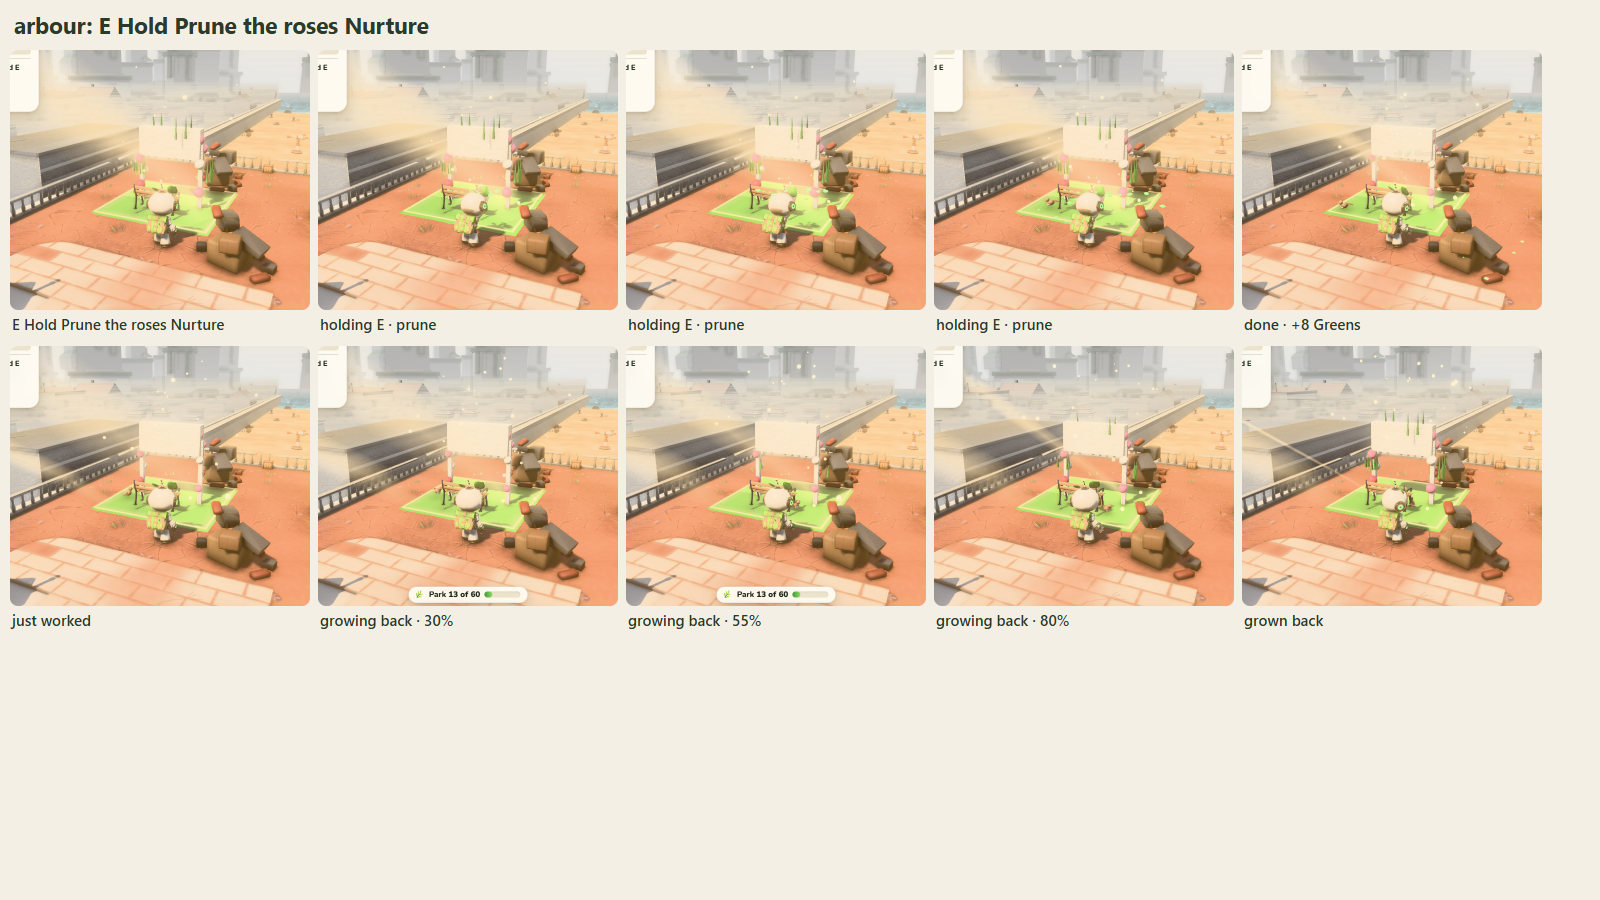
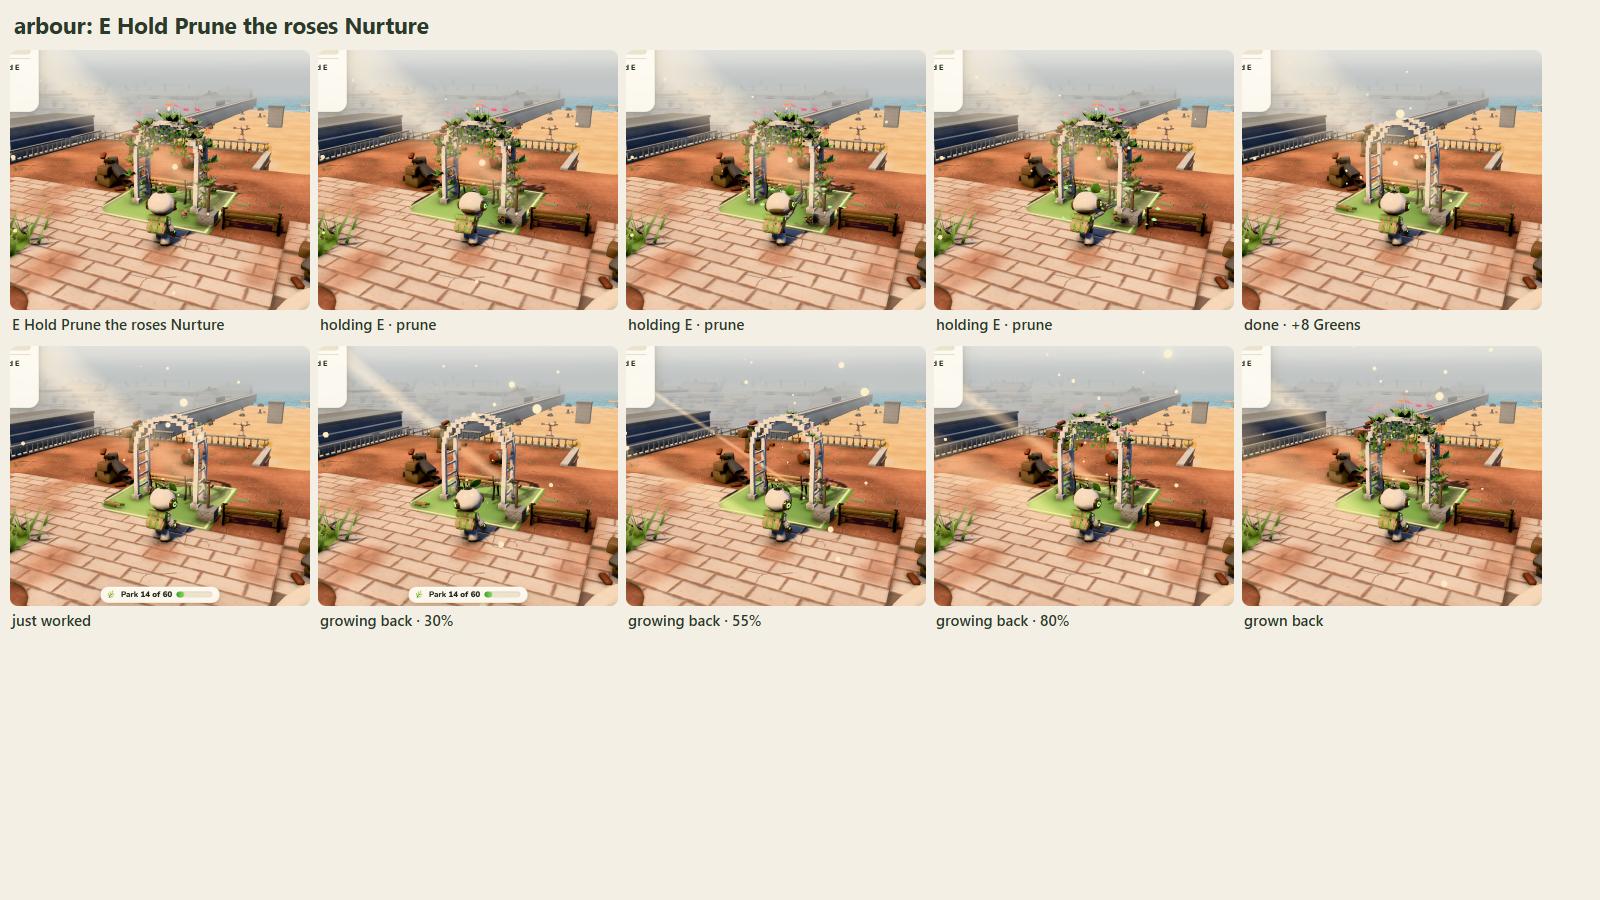
Plot art that matches the park, and prunes you can see (#680, art half)
The plant plots grow from the park's own planting now (leafy shrubs, flower
clumps, grass and ivy) instead of cones and balls, and show being picked,
pruned and growing back: the orchard bushes out and the rose arbour is
smothered in leaves and pink flowers when wild, then stands neat beside a
heap of clippings once pruned. Fixed three builds that drew wrong: the arbour
arch and the bike hoops were solid slabs (no torus in the chunk mesh; they
are rings of short pieces now), the glasshouse was a dark shut box (now open
white frames with a glass roof over benches of seedlings), and the splash
pool's water sat under its stone. Café, playground, music corner, mooring,
stalls, reeds, dipping pond, picnic and hut are kept.

Adds tests/e2e/plot-gallery.mjs (every option from the follow camera, before
and after) and new gather and prune strips.

diff --git a/src/rendering/PlotArt.ts b/src/rendering/PlotArt.ts
@@ -8,8 +8,13 @@
  * model pipeline (#197, #198): add it to the batch here under the option's id, keeping the fallback.
  *
  * Far level of detail is one coloured pad and a single blob, so a zoomed-out city full of plots stays cheap.
+ *
+ * E27.2 (#680): the plant plots grow from the park's own planting (leafy shrubs, flower clumps, grass and ivy from
+ * Flora.ts) instead of cones and balls, so they sit in the park and can show being picked, pruned and growing back.
+ * Arches and wheels are rings of short pieces, because the chunk mesh has no torus and no rotation.
  */
 import type { PlotSpot } from '../core/Plots';
+import { flowerGeo, grassGeo, leafyShrubGeo, vineGeo, type FlowerSpecies } from './Flora';
 import { PALETTE } from './Palette';
 import type { VPrim } from './Shapes';
 import { shrubGeo, treeGeo, type Lod, type Species } from './TreeGen';
@@ -97,17 +102,48 @@ function waiting(h: PlotHost, x0: number, z0: number, S: number, y: number) {
   h.add('box', C.string, [x0 + S / 2, y + 0.34, z0 + S - e], [S - 2 * e, 0.012, 0.012]);
 }
 
-/** A raised bed: timber edge, soil, rows of crops. */
-function bed(h: PlotHost, cx: number, cz: number, w: number, d: number, y: number, crop: string, v: number, g = 1) {
+/**
+ * E27.2: a raised bed: timber edge, soil, two rows of leafy crops, and a sunflower at each end. Picked, only new
+ * leaves show in the soil; the crops fill out again as it grows back, and the flowers come back last.
+ */
+function bed(a: At, cx: number, cz: number, w: number, d: number, k: number) {
+  const { h, y, g } = a;
   h.add('box', C.deck, [cx, y + 0.07, cz], [w, 0.14, d]);
   h.add('box', C.bedSoil, [cx, y + 0.145, cz], [w - 0.1, 0.02, d - 0.1]);
-  const n = Math.max(2, Math.round(w / 0.2));
-  // E27.2: picked, the rows are short green stubs; they fill out again as it grows back (the crop colour last)
-  const k = 0.3 + 0.7 * g;
+  const n = Math.max(2, Math.round(d / 0.36));
   for (let i = 0; i < n; i++) {
-    const px = cx - w / 2 + (i + 0.5) * (w / n);
-    h.add('sphere', i % 2 || g < 0.6 ? PALETTE.flowers.stem : crop, [px, y + 0.15 + 0.04 * k, cz - d * 0.2], 0.11 * k);
-    h.add('sphere', (i + v) % 3 || g < 0.6 ? PALETTE.flowers.stemSoft : crop, [px, y + 0.15 + 0.04 * k, cz + d * 0.2], 0.1 * k);
+    const pz = cz - d / 2 + (i + 0.5) * (d / n);
+    for (const s of [-1, 1]) {
+      const px = cx + s * w * 0.22;
+      const vv = a.v + i * 3 + (s > 0 ? 1 : 0) + k;
+      if (g < 0.2) h.foliage(grassGeo(1, vv, h.lod), px, y + 0.155, pz, vv, 1.1); // picked: new leaves just showing
+      else h.foliage(leafyShrubGeo(vv, h.lod, false), px, y + 0.155, pz, vv * 1.3, 0.2 + 0.26 * g);
+    }
+  }
+  if (g >= 0.5) for (const s of [-1, 1]) h.foliage(flowerGeo('sunflower', k, true, a.v + k + s, h.lod), cx, y + 0.155, cz + s * (d / 2 - 0.08), k, 0.7 + 0.3 * g);
+}
+
+/** E27.2: a little heap of fresh clippings beside a plant Bloombot has just pruned (gone once it has grown out). */
+function clippings(a: At, x: number, z: number) {
+  if (a.g >= 0.5) return;
+  const k = 1 - a.g * 2;
+  for (let i = 0; i < 5; i++) {
+    const ang = a.v + i * 1.3;
+    a.h.add('box', i % 2 ? PALETTE.flowers.stem : PALETTE.wood.mid, [x + Math.cos(ang) * 0.08, a.y + 0.03 + (i % 3) * 0.02, z + Math.sin(ang) * 0.06], [0.22 * k, 0.025, 0.04]);
+  }
+  a.h.foliage(leafyShrubGeo(a.v + 2, a.h.lod, false), x, a.y + 0.02, z, a.v, 0.22 * k);
+}
+
+/**
+ * E27.2: an upright ring (or arc from `from` to `to`, radians from +x) of `n` short pieces centred on (x, y, z), in
+ * the x-y plane. A piece is long along the ring and `thick` across it.
+ */
+function ring(a: At, hex: string, x: number, y: number, z: number, r: number, thick: number, from = 0, to = Math.PI * 2, n = 12) {
+  const seg = ((to - from) / n) * r * 1.15;
+  for (let i = 0; i < n; i++) {
+    const t = from + ((i + 0.5) / n) * (to - from);
+    const across = Math.abs(Math.sin(t)); // 1 at the top and bottom (the piece lies along x), 0 at the sides
+    a.h.add('box', hex, [x + Math.cos(t) * r, y + Math.sin(t) * r, z], [thick + (seg - thick) * across, thick + (seg - thick) * (1 - across), thick]);
   }
 }
 
@@ -144,44 +180,39 @@ function water(a: At, x: number, z: number, w: number, d: number) {
   a.h.add('box', C.waterShallow, [x, a.y + 0.09, z], [w, 0.02, d]);
 }
 
-/**
- * E27.2: shoots grown wild out of a plant Bloombot prunes, more of them and longer the more overgrown it is (none
- * just after pruning, when `wild` is 0).
- */
-function shoots(a: At, x: number, z: number, top: number, spread: number, wild: number, hex: string) {
-  const n = Math.round(wild * 5);
-  for (let i = 0; i < n; i++) {
-    const ang = ((a.v + i * 2.4) % 6.28) + i;
-    const len = 0.16 + 0.22 * wild;
-    a.h.add('cone', hex, [x + Math.cos(ang) * spread, a.y + top + len / 2, z + Math.sin(ang) * spread], [0.05, len, 0.05]);
-  }
-}
-
 /** E27.2: for the plots Bloombot prunes, how wild they've grown (0 just pruned, 1 at `growth` 1). */
 const wildOf = (a: At) => Math.max(0, (a.g - 0.35) / 0.65);
 
 const garden = (a: At) => {
-  bed(a.h, a.cx - 0.45, a.cz, 0.7, 1.6, a.y, pick(C.veg, a.v), a.v, a.g);
-  bed(a.h, a.cx + 0.45, a.cz, 0.7, 1.6, a.y, pick(C.veg, a.v + 1), a.v + 1, a.g);
-  for (const s of [-1, 1]) a.h.add('sphere', PALETTE.flowers.orange, [a.cx, a.y + 0.14, a.cz + s * 0.6], 0.16); // marigolds on the path
+  bed(a, a.cx - 0.45, a.cz, 0.7, 1.6, 0);
+  bed(a, a.cx + 0.45, a.cz, 0.7, 1.6, 1);
+  for (const s of [-1, 1]) a.h.foliage(flowerGeo('wild', 1, true, a.v + s, a.h.lod), a.cx, a.y + 0.02, a.cz + s * 0.62, s, 0.9); // marigolds on the path
 };
 
 const ART: Record<string, (a: At) => void> = {
   garden,
   orchard: (a) => {
-    // E27.2: pruned they stand neat; left, they bush out and throw up long shoots, until Bloombot prunes them
+    // E27.2: pruned, four neat young fruit trees and a heap of clippings; left, each grows a bigger, shaggier crown
+    // with suckers bushing up round its foot, until Bloombot prunes it back
     const wild = wildOf(a);
-    for (const [dx, dz] of [[-0.48, -0.48], [0.48, -0.48], [-0.48, 0.48], [0.48, 0.48]]) {
-      tree(a, 'cherry', a.cx + dx, a.cz + dz, 0.44 + 0.1 * wild, 2); // young trees: a quarter of a grown tree's triangles
-      shoots(a, a.cx + dx, a.cz + dz, 0.62 + 0.08 * wild, 0.14, wild, PALETTE.flowers.stem);
-      a.h.add('sphere', pick(C.fruit, a.v), [a.cx + dx + 0.12, a.y + 0.11, a.cz + dz - 0.1], 0.08); // a windfall
+    for (const [dx, dz] of [[-0.5, -0.5], [0.5, -0.5], [-0.5, 0.5], [0.5, 0.5]]) {
+      const x = a.cx + dx;
+      const z = a.cz + dz;
+      a.h.add('cylinder', C.bedSoil, [x, a.y + 0.01, z], [0.5, 0.02, 0.5]); // a cleared ring round each trunk
+      tree(a, 'cherry', x, z, 0.5 + 0.22 * wild, wild > 0.5 ? 3 : 2);
+      for (let k = 0; k < Math.round(wild * 3); k++) a.h.foliage(leafyShrubGeo(a.v + k, a.h.lod, false), x + (k - 1) * 0.16, a.y + 0.02, z + 0.14 - k * 0.06, k, 0.3 + 0.12 * wild);
+      a.h.add('sphere', pick(C.fruit, a.v), [x + 0.16, a.y + 0.05, z - 0.12], 0.08); // a windfall
     }
+    clippings(a, a.cx, a.cz - 0.95);
   },
   cafe: (a) => {
     a.h.add('box', C.kerb, [a.cx, a.y + 0.02, a.cz], [a.S - 0.1, 0.04, a.S - 0.1]);
     table(a, a.cx - 0.45, a.cz - 0.45, 0);
     table(a, a.cx + 0.45, a.cz + 0.45, 1);
-    if (!a.h.model('planter-trough', a.cx + 0.5, a.y + 0.08, a.cz - 0.6, 0, 0.45)) bed(a.h, a.cx + 0.5, a.cz - 0.6, 0.7, 0.3, a.y, PALETTE.flowers.stem, a.v);
+    if (!a.h.model('planter-trough', a.cx + 0.5, a.y + 0.08, a.cz - 0.6, 0, 0.45)) {
+      a.h.add('box', C.deck, [a.cx + 0.5, a.y + 0.07, a.cz - 0.6], [0.7, 0.14, 0.3]);
+      for (const s of [-1, 1]) a.h.foliage(leafyShrubGeo(a.v + s, a.h.lod, false), a.cx + 0.5 + s * 0.18, a.y + 0.15, a.cz - 0.6, s, 0.22);
+    }
   },
   playground: (a) => {
     const { h, y, cx, cz } = a;
@@ -197,57 +228,104 @@ const ART: Record<string, (a: At) => void> = {
   },
   arbour: (a) => {
     const { h, y, cx, cz } = a;
-    // E27.2: pruned, the roses sit close to the frame; left, they grow bushy and trail long canes
+    // E27.2: an arch of white timber over a bench, with climbing roses up both sides and over the top. Pruned, the
+    // roses sit close to the frame beside a heap of clippings; left, they bush out, flower thickly and trail canes.
     const wild = wildOf(a);
-    const r = 0.13 + 0.05 * wild;
+    const H = 0.9;
+    const W = 0.55;
     for (const s of [-1, 1]) {
-      h.add('box', C.frame, [cx + s * 0.55, y + 0.55, cz], [0.07, 1.1, 0.07]);
-      for (let k = 0; k < 4; k++) h.add('sphere', pick(C.rose, k + (s > 0 ? 1 : 0)), [cx + s * 0.55, y + 0.3 + k * 0.24, cz + ((k % 2) - 0.5) * 0.14], r);
-      shoots(a, cx + s * 0.62, cz, 0.5, 0.12, wild, PALETTE.flowers.stem);
+      for (const dz of [-0.22, 0.22]) {
+        h.add('box', C.kerb, [cx + s * W, y + 0.04, cz + dz], [0.14, 0.08, 0.14]);
+        h.add('box', C.frame, [cx + s * W, y + H / 2, cz + dz], [0.07, H, 0.07]);
+      }
+      for (let k = 0; k < 4; k++) h.add('box', C.frame, [cx + s * W, y + 0.2 + k * 0.2, cz], [0.03, 0.03, 0.44]); // trellis rungs
+      // pruned, short green stems; left, big flowering bushes
+      for (let k = 0; k < 3; k++) h.foliage(leafyShrubGeo(a.v + k + (s > 0 ? 3 : 0), h.lod, wild > 0.3), cx + s * (W + 0.04 + 0.08 * wild), y + 0.04 + k * 0.3, cz + (k % 2 ? 0.1 : -0.1), k * 1.7, 0.2 + 0.36 * wild);
     }
-    h.add('torus', C.frame, [cx, y + 1.1, cz], [1.1, 0.5, 0.2]);
-    for (let k = 0; k < 6; k++) h.add('sphere', pick(C.rose, k), [cx - 0.5 + k * 0.2, y + 1.18 + Math.sin(k) * 0.05, cz], r + 0.02);
-    shoots(a, cx, cz, 1.2, 0.35, wild, PALETTE.flowers.stem);
-    if (!h.model('bench', cx, y + 0.08, cz - 0.55, 0, 0.5)) h.add('box', PALETTE.props.benchWood, [cx, y + 0.24, cz - 0.55], [0.7, 0.06, 0.24]);
+    for (const dz of [-0.22, 0.22]) ring(a, C.frame, cx, y + H, cz + dz, W, 0.06, 0, Math.PI, 16);
+    for (let k = 0; k < 5; k++) {
+      const t = ((k + 0.5) / 5) * Math.PI;
+      h.add('box', C.frame, [cx + Math.cos(t) * W, y + H + Math.sin(t) * W, cz], [0.04, 0.04, 0.5]); // slats over the top
+    }
+    // roses over the top: a few close to the frame when pruned, a thick flowering crown left wild
+    const top = 3 + Math.round(wild * 5);
+    for (let k = 0; k < top; k++) {
+      const t = ((k + 0.5) / top) * Math.PI;
+      h.foliage(leafyShrubGeo(a.v + k, h.lod, wild > 0.3 || k % 2 === 0), cx + Math.cos(t) * W, y + H + Math.sin(t) * W - 0.06, cz + ((k % 2) - 0.5) * 0.18, k * 2.3, 0.2 + 0.34 * wild);
+    }
+    // left wild, canes trail down off the top of the arch, front and back (a vine runs along its local +x from where
+    // it starts, so the back one, turned round, starts at the other end)
+    if (wild > 0.3) {
+      const len = 0.5 + 0.4 * wild;
+      for (const s of [-1, 1]) h.foliage(vineGeo(3, 0.15 + 0.4 * wild, a.v + s, h.lod), cx - (s * len) / 2, y + H + W * 0.85, cz + s * 0.27, s > 0 ? 0 : Math.PI, len);
+    }
+    // the roses' flowers: a few buds once pruned, then pink clusters all over the arch as it grows wild
+    const blooms = Math.round(2 + wild * 6);
+    for (let k = 0; k < blooms; k++) {
+      const t = ((k + 0.5) / blooms) * Math.PI;
+      h.foliage(flowerGeo('cosmos', k, wild > 0.2, a.v + k, h.lod), cx + Math.cos(t) * (W + 0.03), y + H + Math.sin(t) * (W + 0.03), cz + (k % 2 ? 0.2 : -0.2), k, 0.6 + 0.9 * wild);
+    }
+    for (const s of [-1, 1]) for (let k = 0; k < Math.round(wild * 3); k++) h.foliage(flowerGeo('cosmos', k + 2, true, a.v + k + s, h.lod), cx + s * (W + 0.1), y + 0.2 + k * 0.28, cz + (k % 2 ? -0.18 : 0.18), k, 0.9 + 0.5 * wild);
+    if (!h.model('bench', cx, y + 0.08, cz, 0, 0.5)) h.add('box', PALETTE.props.benchWood, [cx, y + 0.24, cz], [0.7, 0.06, 0.24]);
+    clippings(a, cx + 0.72, cz - 0.72);
   },
   meadow: (a) => {
-    // E27.2: cut, short stubble; the long grass and its poppies come back as it grows
-    const tall = 0.1 + 0.3 * a.g;
-    for (let i = 0; i < 9; i++) {
-      const x = a.x0 + 0.3 + (i % 3) * 0.7;
-      const z = a.z0 + 0.3 + Math.floor(i / 3) * 0.7;
-      a.h.add('cone', PALETTE.lawn.tuft[i % 3], [x, a.y + tall / 2, z], [0.32, tall, 0.32]);
-      if (a.g > 0.5) a.h.add('sphere', i % 3 ? PALETTE.flowers.red : PALETTE.flowers.yellow, [x + 0.1, a.y + tall - 0.04, z - 0.06], 0.1 * Math.min(1, (a.g - 0.5) * 3));
+    // E27.2: long grass and wildflowers from the park's own grass and flower clumps. Cut, short stubble with bundles
+    // of cut grass; the long grass comes back, then the poppies, daisies and cosmos.
+    const kinds: FlowerSpecies[] = ['wild', 'daisy', 'cosmos'];
+    for (let i = 0; i < 16; i++) {
+      const x = a.x0 + 0.22 + (i % 4) * 0.52 + ((a.v + i * 7) % 5) * 0.03;
+      const z = a.z0 + 0.22 + Math.floor(i / 4) * 0.52 + ((a.v + i * 3) % 5) * 0.03;
+      a.h.foliage(grassGeo(a.g < 0.25 ? 1 : 3, a.v + i, a.h.lod), x, a.y + 0.01, z, i * 1.1, 1.2 + 2.2 * a.g);
+      if (a.g > 0.5 && i % 2 === 0) a.h.foliage(flowerGeo(kinds[(i / 2) % 3], i, true, a.v + i, a.h.lod), x + 0.12, a.y + 0.01, z - 0.1, i, 0.7 + 1.2 * (a.g - 0.5));
     }
+    if (a.g < 0.5) for (const [dx, dz] of [[-0.5, -0.3], [0.45, 0.4]]) a.h.add('cylinder', PALETTE.lawn.tuft[2], [a.cx + dx, a.y + 0.07, a.cz + dz], [0.22, 0.14, 0.22]); // bundles of cut grass
   },
   parklet: (a) => {
     const { h, y, cx, cz } = a;
     h.add('box', C.deck, [cx, y + 0.05, cz], [a.S - 0.2, 0.1, a.S - 0.2]);
-    // E27.2: pruned, neat little rounds in the pots; left, they bush out and sprout
+    // E27.2: a flowering shrub in each pot. Pruned, neat rounds with clippings on the deck; left, they bush out over
+    // the rims in long sprays.
     const wild = wildOf(a);
-    for (const [dx, dz] of [[-0.6, -0.6], [0.6, -0.6], [-0.6, 0.6], [0.6, 0.6]]) {
-      if (!h.model('planter-pot', cx + dx, y + 0.1, cz + dz, 0, 0.42)) h.add('cylinder', C.kerb, [cx + dx, y + 0.24, cz + dz], [0.36, 0.3, 0.36]);
-      shrub(a, cx + dx, cz + dz, 0.38 + 0.14 * wild);
-      shoots(a, cx + dx, cz + dz, 0.5, 0.1, wild, PALETTE.flowers.stem);
-    }
+    const pots: [number, number][] = [[-0.6, -0.6], [0.6, -0.6], [-0.6, 0.6], [0.6, 0.6]];
+    pots.forEach(([dx, dz], i) => {
+      let top = y + 0.36;
+      if (!h.model('planter-pot', cx + dx, y + 0.1, cz + dz, 0, 0.42)) {
+        h.add('cylinder', C.kerb, [cx + dx, y + 0.24, cz + dz], [0.36, 0.3, 0.36]);
+        top = y + 0.38;
+      }
+      h.foliage(leafyShrubGeo(a.v + i, h.lod, wild > 0.3), cx + dx, top, cz + dz, i, 0.26 + 0.36 * wild);
+      for (let k = 0; k < Math.round(wild * 3); k++) h.foliage(leafyShrubGeo(a.v + i + k + 2, h.lod, true), cx + dx + (k - 1) * 0.16, top + 0.08, cz + dz + (k % 2 ? 0.16 : -0.12), k, 0.24 + 0.16 * wild);
+    });
     if (!h.model('bench', cx, y + 0.1, cz, 0, 0.5)) h.add('box', PALETTE.props.benchWood, [cx, y + 0.28, cz], [0.8, 0.06, 0.28]);
+    clippings(a, cx, cz - 0.55);
   },
   bikes: (a) => {
     const { h, y, cx, cz } = a;
-    for (let i = 0; i < 4; i++) h.add('torus', C.metal, [cx - 0.6 + i * 0.4, y + 0.3, cz - 0.3], [0.4, 0.4, 0.06]);
+    // E27.2 (#680): the hoops and wheels are rings now (they drew as solid slabs: the chunk mesh has no torus)
+    h.add('box', C.kerb, [cx, y + 0.02, cz - 0.3], [1.7, 0.04, 0.3]);
+    for (let i = 0; i < 4; i++) ring(a, C.metal, cx - 0.6 + i * 0.4, y + 0.04, cz - 0.3, 0.17, 0.035, 0, Math.PI, 7);
     for (let i = 0; i < 2; i++) {
       const bx = cx - 0.4 + i * 0.8;
       const col = pick(C.play, a.v + i);
-      for (const s of [-1, 1]) h.add('torus', PALETTE.pure.black, [bx + s * 0.22, y + 0.2, cz + 0.3], [0.36, 0.36, 0.05]);
-      h.add('box', col, [bx, y + 0.32, cz + 0.3], [0.46, 0.05, 0.04]);
+      for (const s of [-1, 1]) ring(a, PALETTE.pure.black, bx + s * 0.22, y + 0.2, cz + 0.3, 0.16, 0.03, 0, Math.PI * 2, 10);
+      h.add('box', col, [bx, y + 0.32, cz + 0.3], [0.46, 0.04, 0.04]);
+      h.add('box', col, [bx - 0.1, y + 0.27, cz + 0.3], [0.04, 0.16, 0.04]);
       h.add('box', col, [bx + 0.16, y + 0.42, cz + 0.3], [0.04, 0.22, 0.04]);
+      h.add('box', PALETTE.pure.black, [bx + 0.16, y + 0.53, cz + 0.3], [0.04, 0.03, 0.24]); // handlebars
+      h.add('box', PALETTE.pure.black, [bx - 0.12, y + 0.37, cz + 0.3], [0.12, 0.03, 0.07]); // saddle
     }
   },
   splash: (a) => {
     const { h, y, cx, cz } = a;
-    h.add('cylinder', C.kerb, [cx, y + 0.06, cz], [1.8, 0.12, 1.8]);
-    h.add('cylinder', C.waterShallow, [cx, y + 0.1, cz], [1.6, 0.04, 1.6]);
-    h.add('cylinder', C.kerb, [cx, y + 0.22, cz], [0.18, 0.3, 0.18]);
+    // E27.2 (#680): the water sits inside a low stone rim (it was level with the stone before, so the pool looked dry)
+    h.add('cylinder', C.kerb, [cx, y + 0.02, cz], [1.8, 0.04, 1.8]);
+    for (let k = 0; k < 16; k++) {
+      const t = (k / 16) * Math.PI * 2;
+      h.add('box', C.kerb, [cx + Math.cos(t) * 0.86, y + 0.09, cz + Math.sin(t) * 0.86], [0.36, 0.14, 0.36]);
+    }
+    h.add('cylinder', C.waterShallow, [cx, y + 0.12, cz], [1.56, 0.02, 1.56]);
+    h.add('cylinder', C.kerb, [cx, y + 0.22, cz], [0.18, 0.24, 0.18]);
     h.add('sphere', PALETTE.aqua.mist, [cx, y + 0.42, cz], [0.26, 0.2, 0.26], 0.2);
   },
   bandstand: (a) => {
@@ -275,12 +353,18 @@ const ART: Record<string, (a: At) => void> = {
     if (!a.h.model('crate', a.cx + 0.55, a.y + 0.08, a.cz - 0.6, 0.3, 0.35)) a.h.add('box', PALETTE.wood.crate, [a.cx + 0.55, a.y + 0.2, a.cz - 0.6], 0.3);
   },
   crates: (a) => {
+    // E27.2: herbs and lavender in old crates. Picked, cut down to the rim; they grow back up and flower again.
+    const herbs: FlowerSpecies[] = ['lavender', 'daisy', 'lavender', 'wild'];
     for (let i = 0; i < 4; i++) {
       const x = a.cx + (i % 2 ? 0.45 : -0.45);
       const z = a.cz + (i < 2 ? -0.45 : 0.45);
-      if (!a.h.model('crate', x, a.y + 0.08, z, (i * Math.PI) / 7, 0.48)) a.h.add('box', PALETTE.wood.crate, [x, a.y + 0.28, z], [0.62, 0.4, 0.62]);
-      shrub(a, x, z + 0.02, 0.16 + 0.24 * a.g); // E27.2: picked down to the crate's rim, then growing back
-      if (a.g > 0.5) a.h.add('sphere', pick(PALETTE.flowers.mix, i + a.v), [x + 0.15, a.y + 0.62, z], 0.14);
+      let top = a.y + 0.42;
+      if (!a.h.model('crate', x, a.y + 0.08, z, (i * Math.PI) / 7, 0.48)) {
+        a.h.add('box', PALETTE.wood.crate, [x, a.y + 0.28, z], [0.62, 0.4, 0.62]);
+        top = a.y + 0.48;
+      }
+      a.h.foliage(leafyShrubGeo(a.v + i, a.h.lod, false), x, top - 0.06, z, i, 0.16 + 0.22 * a.g);
+      if (a.g > 0.5) a.h.foliage(flowerGeo(herbs[i], i, true, a.v + i, a.h.lod), x + 0.08, top, z - 0.04, i, 0.8 + (a.g - 0.5));
     }
   },
   reeds: (a) => {
@@ -316,11 +400,33 @@ const ART: Record<string, (a: At) => void> = {
   },
   greenhouse: (a) => {
     const { h, y, cx, cz } = a;
-    h.add('box', C.kerb, [cx, y + 0.08, cz], [1.6, 0.16, 1.2]);
-    h.add('box', C.glass, [cx, y + 0.5, cz], [1.5, 0.7, 1.1], 0.05);
-    h.add('box', C.glass, [cx, y + 0.95, cz], [1.2, 0.2, 0.8], 0.05);
-    for (const s of [-1, 0, 1]) h.add('box', C.frame, [cx + s * 0.74, y + 0.55, cz], [0.04, 0.8, 1.14]);
-    for (let i = 0; i < 5; i++) h.add('sphere', PALETTE.flowers.stem, [cx - 0.5 + i * 0.25, y + 0.26 + 0.08 * a.g, cz], 0.05 + 0.09 * a.g); // E27.2: picked, then sprouting again
+    // E27.2 (#680): a white-framed glasshouse on a low sill, its sides open between the frames and pale glass only in
+    // the roof, so the benches of seedlings inside show from any side (the old shut glass box drew as a dark block).
+    // Picked, the trays hold tiny shoots that grow back.
+    h.add('box', C.kerb, [cx, y + 0.04, cz], [1.6, 0.08, 1.2]);
+    const H = 0.8;
+    for (const sz of [-0.58, 0.58]) h.add('box', C.frame, [cx, y + 0.14, cz + sz], [1.6, 0.2, 0.05]); // the sill
+    for (const s of [-1, 1]) h.add('box', C.frame, [cx + s * 0.78, y + 0.14, cz], [0.05, 0.2, 1.16]);
+    for (const sx of [-0.78, -0.26, 0.26, 0.78]) for (const sz of [-0.58, 0.58]) h.add('box', C.frame, [cx + sx, y + H / 2, cz + sz], [0.05, H, 0.05]);
+    for (const sz of [-0.58, 0.58]) h.add('box', C.frame, [cx, y + H, cz + sz], [1.62, 0.05, 0.05]);
+    for (const s of [-1, 1]) h.add('box', C.frame, [cx + s * 0.78, y + H, cz], [0.05, 0.05, 1.16]);
+    // a pitched roof of pale glass in steps (the chunk mesh has no rotation), with white glazing bars
+    for (let k = 0; k < 4; k++) {
+      for (const s of [-1, 1]) h.add('box', C.glass, [cx, y + H + 0.03 + k * 0.07, cz + s * (0.58 - (k + 0.5) * 0.145)], [1.56, 0.02, 0.15], 0.3);
+    }
+    for (const sx of [-0.52, 0, 0.52]) for (const s of [-1, 1]) h.add('box', C.frame, [cx + sx, y + H + 0.15, cz + s * 0.29], [0.03, 0.03, 0.6]);
+    h.add('box', C.frame, [cx, y + H + 0.3, cz], [1.62, 0.05, 0.05]); // the ridge
+    // two benches of seedling trays
+    for (const bz of [-0.2, 0.26]) {
+      h.add('box', PALETTE.wood.mid, [cx, y + 0.3, cz + bz], [1.4, 0.05, 0.32]);
+      for (const lx of [-0.6, 0.6]) h.add('box', PALETTE.wood.mid, [cx + lx, y + 0.15, cz + bz], [0.04, 0.3, 0.28]);
+      for (let i = 0; i < 4; i++) {
+        const tx = cx - 0.5 + i * 0.33;
+        h.add('box', C.bedSoil, [tx, y + 0.35, cz + bz], [0.28, 0.05, 0.26]);
+        if (a.g < 0.2) h.foliage(grassGeo(1, a.v + i, h.lod), tx, y + 0.375, cz + bz, i, 0.9);
+        else h.foliage(leafyShrubGeo(a.v + i + (bz > 0 ? 3 : 0), h.lod, a.g > 0.75 && i % 2 === 0), tx, y + 0.375, cz + bz, i, 0.1 + 0.22 * a.g);
+      }
+    }
   },
 };
 
